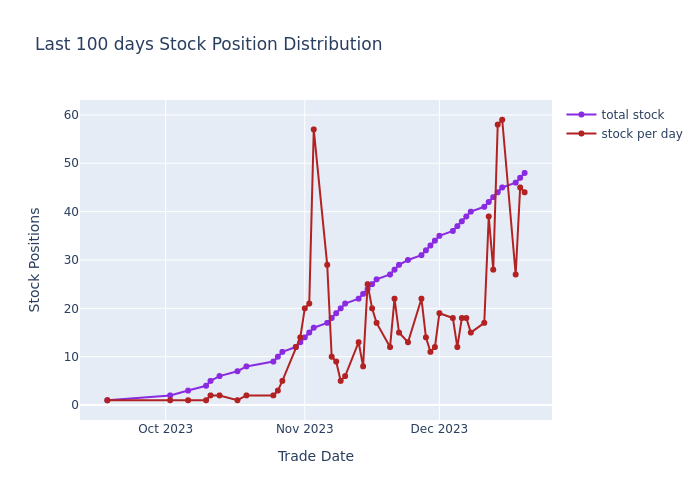
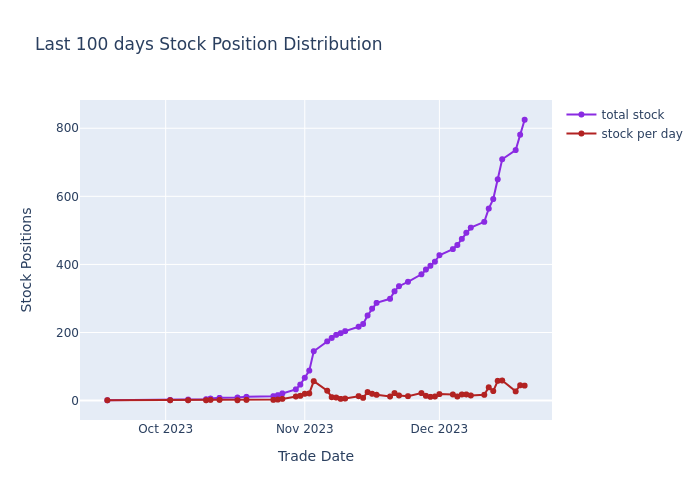
update

diff --git a/finance/utility/StockProposal.py b/finance/utility/StockProposal.py
@@ -197,7 +197,7 @@ class StockProposal:
             # recent 1 month
             sqlDF_bydate = spark.sql(
                 "select buy_date, count(*) as cnt, \
-                    count(*) over (order by buy_date) as total_cnt \
+                    SUM(COUNT(*)) OVER (ORDER BY buy_date ROWS BETWEEN UNBOUNDED PRECEDING AND CURRENT ROW) AS total_cnt \
                     from temp \
                     where buy_date >= date_add(current_date(), -100) \
                     group by buy_date order by buy_date "
